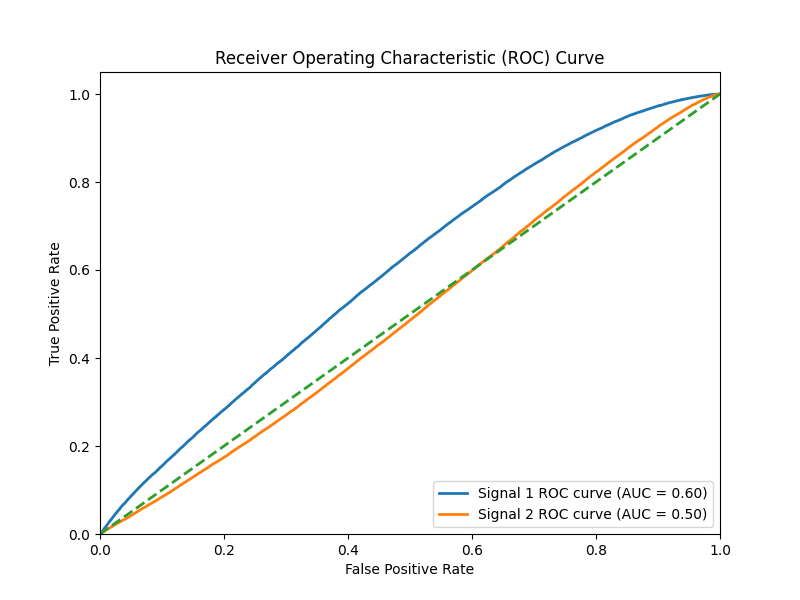
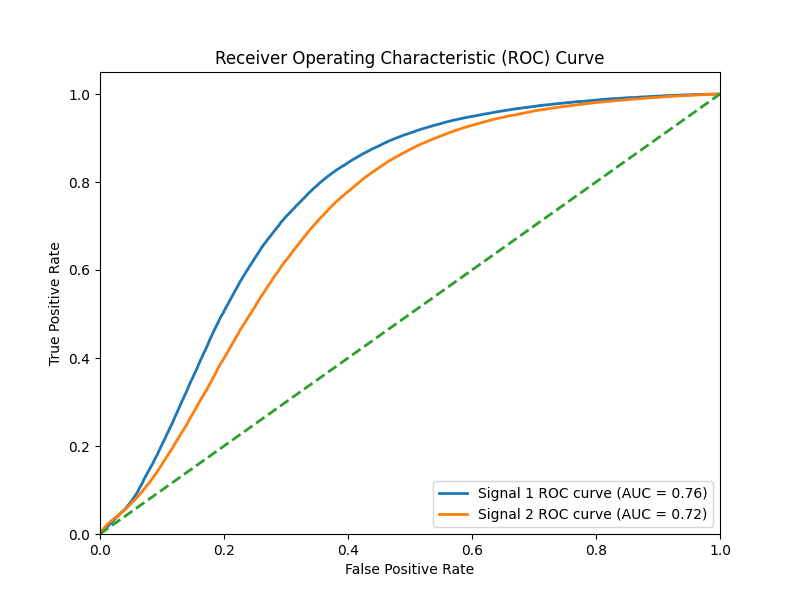
Testing with standard scaling and 21, 14 layer dimensions

diff --git a/hist.py b/hist.py
@@ -62,9 +62,13 @@ if scale == "minmax":
 elif scale == "standard":
     scaler = StandardScaler()
 
-bkg_scaled = pd.DataFrame(scaler.fit_transform(bkg[selection].sample(frac=1)), columns=selection)
-sig1_scaled = pd.DataFrame(scaler.transform(sig1[selection].sample(frac=1)), columns=selection)
-sig2_scaled = pd.DataFrame(scaler.transform(sig2[selection].sample(frac=1)), columns=selection)
+sample_bkg = bkg[selection].sample(frac=1)
+sample_sig1 = sig1[selection].sample(frac=1)
+sample_sig2 = sig2[selection].sample(frac=1)
+
+bkg_scaled = pd.DataFrame(scaler.fit_transform(sample_bkg), columns=selection)
+sig1_scaled = pd.DataFrame(scaler.transform(sample_sig1), columns=selection)
+sig2_scaled = pd.DataFrame(scaler.transform(sample_sig2), columns=selection)
 train_bkg = bkg_scaled[(sig1_scaled.shape[0]):]
 test_bkg = bkg_scaled[:(sig2_scaled.shape[0])]
 

diff --git a/test.py b/test.py
@@ -76,9 +76,13 @@ if scale == "minmax":
 elif scale == "standard":
     scaler = StandardScaler()
 
-bkg_scaled = pd.DataFrame(scaler.fit_transform(bkg[selection].sample(frac=1)), columns=selection)
-sig1_scaled = pd.DataFrame(scaler.transform(sig1[selection].sample(frac=1)), columns=selection)
-sig2_scaled = pd.DataFrame(scaler.transform(sig2[selection].sample(frac=1)), columns=selection)
+sample_bkg = bkg[selection].sample(frac=1)
+sample_sig1 = sig1[selection].sample(frac=1)
+sample_sig2 = sig2[selection].sample(frac=1)
+
+bkg_scaled = pd.DataFrame(scaler.fit_transform(sample_bkg), columns=selection)
+sig1_scaled = pd.DataFrame(scaler.transform(sample_sig1), columns=selection)
+sig2_scaled = pd.DataFrame(scaler.transform(sample_sig2), columns=selection)
 train_bkg = bkg_scaled[(sig1_scaled.shape[0]):]
 test_bkg = bkg_scaled[:(sig2_scaled.shape[0])]
 
